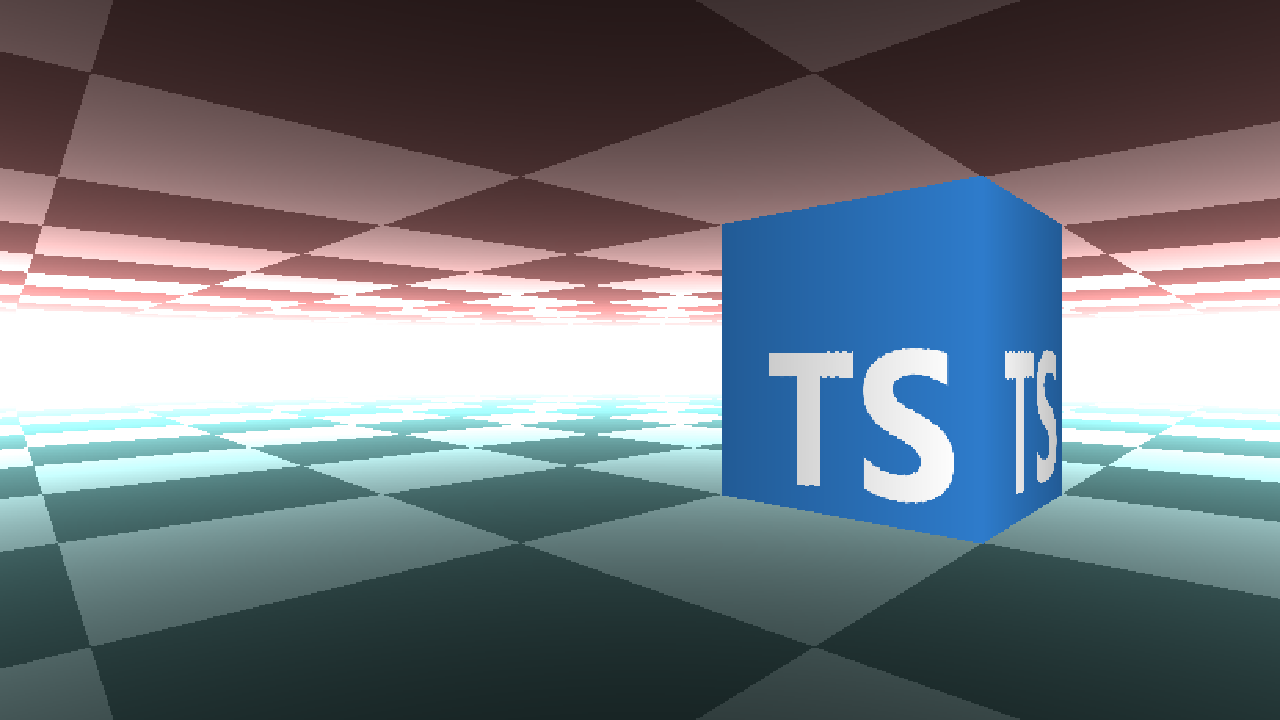
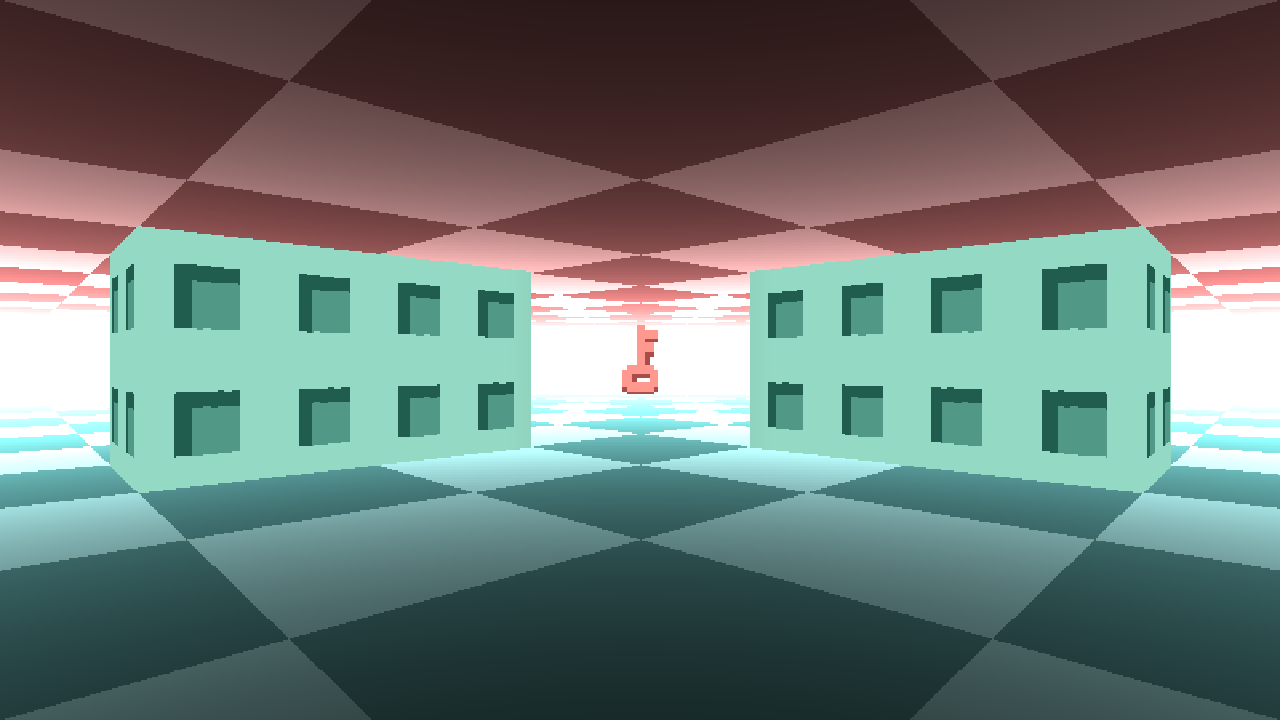
Add few custom assets

diff --git a/game.ts b/game.ts
@@ -220,10 +220,10 @@ function rayStep(p1: Vector2, p2: Vector2): Vector2 {
 
 type Tile = RGBA | ImageData | null;
 
-const SCENE_FLOOR1 = new RGBA(0.094, 0.094 + 0.05, 0.094 + 0.05, 1.0);
-const SCENE_FLOOR2 = new RGBA(0.188, 0.188 + 0.05, 0.188 + 0.05, 1.0);
-const SCENE_CEILING1 = new RGBA(0.094 + 0.05, 0.094, 0.094, 1.0);
-const SCENE_CEILING2 = new RGBA(0.188 + 0.05, 0.188, 0.188, 1.0);
+const SCENE_FLOOR1 = new RGBA(0.094, 0.094 + 0.07, 0.094 + 0.07, 1.0);
+const SCENE_FLOOR2 = new RGBA(0.188, 0.188 + 0.07, 0.188 + 0.07, 1.0);
+const SCENE_CEILING1 = new RGBA(0.094 + 0.07, 0.094, 0.094, 1.0);
+const SCENE_CEILING2 = new RGBA(0.188 + 0.07, 0.188, 0.188, 1.0);
 
 export interface Scene {
     walls: Array<Tile>;
@@ -478,7 +478,7 @@ function renderWalls(display: Display, player: Player, scene: Scene) {
             const by2 = Math.min(display.backImageData.height-1, y2);
             const tx = Math.floor(u*cell.width);
             const sh = (1/Math.ceil(stripHeight))*cell.height;
-            const shadow = Math.min(1/display.zBuffer[x]*2, 1);
+            const shadow = Math.min(1/display.zBuffer[x]*4, 1);
             for (let y = by1; y <= by2; ++y) {
                 const ty = Math.floor((y - y1)*sh);
                 const destP = (y*display.backImageData.width + x)*4;
@@ -507,7 +507,7 @@ function renderCeiling(imageData: ImageData, player: Player) {
             const t = t1.clone().lerp(t2, x/imageData.width);
             const tile = sceneGetCeiling(t);
             if (tile instanceof RGBA) {
-                const shadow = Math.sqrt(player.position.sqrDistanceTo(t));
+                const shadow = player.position.distanceTo(t);
                 const destP = (sz*imageData.width + x)*4;
                 imageData.data[destP + 0] = tile.r*shadow*255;
                 imageData.data[destP + 1] = tile.g*shadow*255;
@@ -535,7 +535,7 @@ function renderFloor(imageData: ImageData, player: Player) {
             const t = t1.clone().lerp(t2, x/imageData.width);
             const tile = sceneGetFloor(t);
             if (tile instanceof RGBA) {
-                const shadow = Math.sqrt(player.position.sqrDistanceTo(t));
+                const shadow = player.position.distanceTo(t);
                 const destP = (y*imageData.width + x)*4;
                 imageData.data[destP + 0] = tile.r*shadow*255;
                 imageData.data[destP + 1] = tile.g*shadow*255;
@@ -586,7 +586,7 @@ function renderSprites(display: Display, player: Player, sprites: Array<Sprite>)
         if (pdist < NEAR_CLIPPING_PLANE) continue; // TODO: I'm not sure if this check is necessary considering the `spl <= NEAR_CLIPPING_PLANE` above
         // TODO: add an ability to positiion the sprites vertically
         // TODO: make the scale of the sprite a parameter configurable per sprite
-        const spriteScale = 1.0;
+        const spriteScale = 0.4;
         const spriteSize = display.backImageData.height/pdist*spriteScale;
         const x1 = Math.floor(cx - spriteSize*0.5);
         const x2 = Math.floor(x1 + spriteSize - 1);
@@ -648,6 +648,6 @@ export function renderGame(display: Display, deltaTime: number, player: Player, 
     renderSprites(display, player, sprites);
     displaySwapBackImageData(display);
 
-    renderMinimap(display.ctx, player, scene, sprites);
-    renderFPS(display.ctx, deltaTime);
+    // renderMinimap(display.ctx, player, scene, sprites);
+    // renderFPS(display.ctx, deltaTime);
 }

diff --git a/game.js b/game.js
@@ -183,10 +183,10 @@ function rayStep(p1, p2) {
     }
     return p3;
 }
-const SCENE_FLOOR1 = new RGBA(0.094, 0.094 + 0.05, 0.094 + 0.05, 1.0);
-const SCENE_FLOOR2 = new RGBA(0.188, 0.188 + 0.05, 0.188 + 0.05, 1.0);
-const SCENE_CEILING1 = new RGBA(0.094 + 0.05, 0.094, 0.094, 1.0);
-const SCENE_CEILING2 = new RGBA(0.188 + 0.05, 0.188, 0.188, 1.0);
+const SCENE_FLOOR1 = new RGBA(0.094, 0.094 + 0.07, 0.094 + 0.07, 1.0);
+const SCENE_FLOOR2 = new RGBA(0.188, 0.188 + 0.07, 0.188 + 0.07, 1.0);
+const SCENE_CEILING1 = new RGBA(0.094 + 0.07, 0.094, 0.094, 1.0);
+const SCENE_CEILING2 = new RGBA(0.188 + 0.07, 0.188, 0.188, 1.0);
 export function createScene(walls) {
     const scene = {
         height: walls.length,
@@ -398,7 +398,7 @@ function renderWalls(display, player, scene) {
             const by2 = Math.min(display.backImageData.height - 1, y2);
             const tx = Math.floor(u * cell.width);
             const sh = (1 / Math.ceil(stripHeight)) * cell.height;
-            const shadow = Math.min(1 / display.zBuffer[x] * 2, 1);
+            const shadow = Math.min(1 / display.zBuffer[x] * 4, 1);
             for (let y = by1; y <= by2; ++y) {
                 const ty = Math.floor((y - y1) * sh);
                 const destP = (y * display.backImageData.width + x) * 4;
@@ -424,7 +424,7 @@ function renderCeiling(imageData, player) {
             const t = t1.clone().lerp(t2, x / imageData.width);
             const tile = sceneGetCeiling(t);
             if (tile instanceof RGBA) {
-                const shadow = Math.sqrt(player.position.sqrDistanceTo(t));
+                const shadow = player.position.distanceTo(t);
                 const destP = (sz * imageData.width + x) * 4;
                 imageData.data[destP + 0] = tile.r * shadow * 255;
                 imageData.data[destP + 1] = tile.g * shadow * 255;
@@ -447,7 +447,7 @@ function renderFloor(imageData, player) {
             const t = t1.clone().lerp(t2, x / imageData.width);
             const tile = sceneGetFloor(t);
             if (tile instanceof RGBA) {
-                const shadow = Math.sqrt(player.position.sqrDistanceTo(t));
+                const shadow = player.position.distanceTo(t);
                 const destP = (y * imageData.width + x) * 4;
                 imageData.data[destP + 0] = tile.r * shadow * 255;
                 imageData.data[destP + 1] = tile.g * shadow * 255;
@@ -483,7 +483,7 @@ function renderSprites(display, player, sprites) {
         const pdist = sprite.position.clone().sub(player.position).dot(dir);
         if (pdist < NEAR_CLIPPING_PLANE)
             continue;
-        const spriteScale = 1.0;
+        const spriteScale = 0.4;
         const spriteSize = display.backImageData.height / pdist * spriteScale;
         const x1 = Math.floor(cx - spriteSize * 0.5);
         const x2 = Math.floor(x1 + spriteSize - 1);
@@ -540,7 +540,5 @@ export function renderGame(display, deltaTime, player, scene, sprites) {
     renderWalls(display, player, scene);
     renderSprites(display, player, sprites);
     displaySwapBackImageData(display);
-    renderMinimap(display.ctx, player, scene, sprites);
-    renderFPS(display.ctx, deltaTime);
 }
 //# sourceMappingURL=game.js.map

diff --git a/index.ts b/index.ts
@@ -1,4 +1,4 @@
-const SCREEN_FACTOR = 30;
+const SCREEN_FACTOR = 50;
 const SCREEN_WIDTH = Math.floor(16*SCREEN_FACTOR);
 const SCREEN_HEIGHT = Math.floor(9*SCREEN_FACTOR);
 
@@ -30,25 +30,25 @@ async function loadImageData(url: string): Promise<ImageData> {
     if (ctx === null) throw new Error("2D context is not supported");
     ctx.imageSmoothingEnabled = false;
 
-    const [typescript, water] = await Promise.all([
-        loadImageData("assets/images/misc/Typescript_logo_2020.png"),
-        loadImageData("assets/images/opengameart/Water_Effect/05/Water__05.png"),
+    const [wall, key] = await Promise.all([
+        loadImageData("assets/images/custom/wall.png"),
+        loadImageData("assets/images/custom/key.png"),
     ]);
 
     let game = await import("./game.js");
     const scene = game.createScene([
-        [ null, null, typescript, null, null, null, null],
-        [ null,       null, null, null, null, null, null],
-        [ typescript, null, null, null, null, null, null],
-        [  null,  null, null, null, null, null, null],
-        [  null],
+        [ null, null, wall, wall, null, null, null],
+        [ null, null, null, null, null, null, null],
+        [ wall, null, null, null, null, null, null],
+        [ wall,  null, null, null, null, null, null],
+        [ null],
         [  null,  null, null, null, null, null, null],
         [  null,  null, null, null, null, null, null],
     ]);
 
     const sprites = [
         {
-            imageData: water,
+            imageData: key,
             position: new game.Vector2(1.5, 1.5),
         }
     ];

diff --git a/index.js b/index.js
@@ -1,5 +1,5 @@
 "use strict";
-const SCREEN_FACTOR = 30;
+const SCREEN_FACTOR = 50;
 const SCREEN_WIDTH = Math.floor(16 * SCREEN_FACTOR);
 const SCREEN_HEIGHT = Math.floor(9 * SCREEN_FACTOR);
 async function loadImage(url) {
@@ -30,23 +30,23 @@ async function loadImageData(url) {
     if (ctx === null)
         throw new Error("2D context is not supported");
     ctx.imageSmoothingEnabled = false;
-    const [typescript, water] = await Promise.all([
-        loadImageData("assets/images/misc/Typescript_logo_2020.png"),
-        loadImageData("assets/images/opengameart/Water_Effect/05/Water__05.png"),
+    const [wall, key] = await Promise.all([
+        loadImageData("assets/images/custom/wall.png"),
+        loadImageData("assets/images/custom/key.png"),
     ]);
     let game = await import("./game.js");
     const scene = game.createScene([
-        [null, null, typescript, null, null, null, null],
+        [null, null, wall, wall, null, null, null],
         [null, null, null, null, null, null, null],
-        [typescript, null, null, null, null, null, null],
-        [null, null, null, null, null, null, null],
+        [wall, null, null, null, null, null, null],
+        [wall, null, null, null, null, null, null],
         [null],
         [null, null, null, null, null, null, null],
         [null, null, null, null, null, null, null],
     ]);
     const sprites = [
         {
-            imageData: water,
+            imageData: key,
             position: new game.Vector2(1.5, 1.5),
         }
     ];
